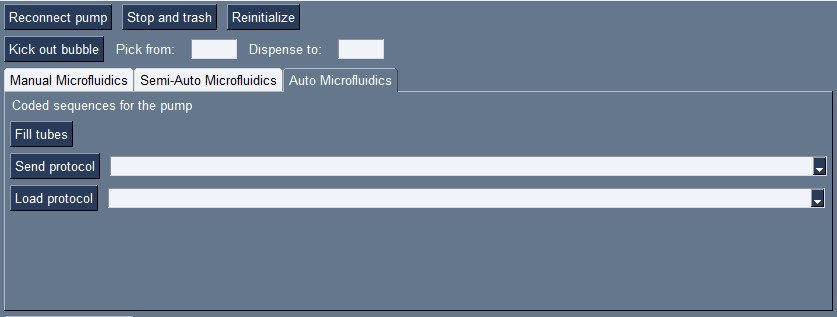
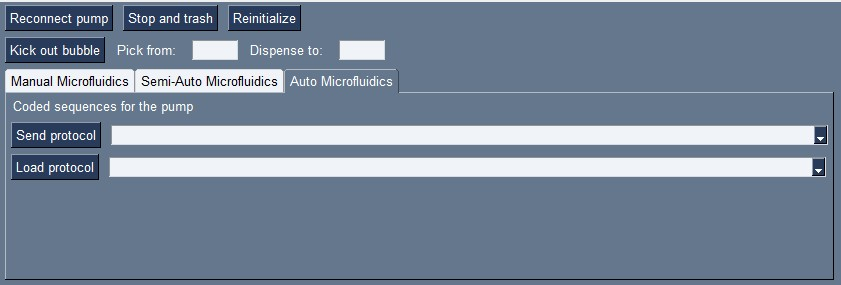
microflu auto

Changed region(s): [[0.0, 0.0, 1.0, 1.0]]

diff --git a/SenSwiss2023/GUI/gui.py b/SenSwiss2023/GUI/gui.py
@@ -544,13 +544,6 @@ if __name__ == "__main__":
             else:
                 print("Check pump connection")
 
-        elif event == "fillTubes":
-            if pump_connected == True:
-                seq = microflu.get_kick_bubble_seq()
-                pump_connected = microflu.write_sequence_to_pump(lsp, seq)
-            else:
-                print("Check pump connection")
-
         elif event == "functionalizeChip":
             if pump_connected == True:
                 channel_chosen = window["functionalizeChannel"].get()
@@ -946,7 +939,7 @@ if __name__ == "__main__":
                 shift_cen = imgproc.compute_shift(time_of_intensities_spec, centroids, comments, moving_average_size, gfapKey, stopKey)
                 window['shiftTxt'].update("Shifts computed: min = " + str(shift_min) + "; centroid = " + str(shift_cen))
                 print("Shifts computed: min = " + str(shift_min) + "; centroid = " + str(shift_cen))
-                
+
         elif event == "acquisitionPeriod":
             try:
                 acqPeriod = float(window["acquistionPeriodInput"].get())

diff --git a/SenSwiss2023/GUI/layout.py b/SenSwiss2023/GUI/layout.py
@@ -84,9 +84,6 @@ def create_layout(logo_size: typing.Tuple[int, int], camera_img_size: typing.Tup
             sg.Text("Coded sequences for the pump"),
         ],
         [
-            sg.Button("Fill tubes", key="fillTubes"),
-        ],
-        [
             sg.Button("Send protocol", key="sendProtocol"),
             sg.Combo(gui.protocol_list, default_value="", key="protocolAuto", size=(100, 1)),
         ],

diff --git a/SenSwiss2023/GUI/README.md b/SenSwiss2023/GUI/README.md
@@ -93,11 +93,16 @@ The semi-automatic mode allows the user to define a protocol of commands that wi
 - `copy`: the copy checkbox allows to select the line to copy, the user can then paste the line by clicking on the `Copy commands` button
 - `Delete`: the user can delete the line by clicking on the `Delete` button
 
-The user can then select the command to add from the drop-down list. The user can then set the parameters of the command via the input fields. For example, if the user wants to pick up 10 $\mu L$ from valve 1 at a flowrate of 1000 $\mu L$/min, the user has to select the command `Pickup uL`, set the valve to 1
-, the volume and the the flowrate. The user can then click on the Add command button to add the command to the list of commands. The list of commands can be saved by clicking on the Save protocol button. The protocol will be saved in the protocols folder as a *.csv* file. The user can name the protocol file via the adjacent input field, in any case, the protocol will be saved. 
+The list of commands can be saved by clicking on the `Save commands` button with a file name specified by the user. The protocol will be saved in the protocols folder as a **.csv** file. If the user loads a protocol from the automatic section, the program will automatically load the protocol and display it in the list of commands in the semi-automatic section. The user can then edit the protocol and save it under a different name.
+
+The user can clear the whole command pannel by clicking on the `Delete all` button.
+
+Finally, the user can send the protocol to the pump for it to be sequentially executed by clicking on the `Send` button. The program will concatenate all the command **strings** into a big command **string** and send it to the pump which will then dissect it and execute the instruction one by one. This communication way prevents too long lists of commands. An empirical maximum is at 22 command lines.
+
 #### Automatic
 ![Microflu_auto](layout_figures/Microflu_auto.jpg)
-The user can load a protocol by clicking on the Load protocol button. The user can then select the protocol to load from the list of protocols. The protocol will be loaded and displayed in the list of commands. The user can then edit the protocol and save it under a different name.
+
+The automatic mode allows to execute prewritten protocols. The user can either select and directly send a protocol to the pump for it to be excecuted via the `Send protocol` button, or the user can also select and load a protocol into the semi-automatic section by clicking on the `Load protocol` button. The protocol will be loaded and displayed in the list of commands. The user can then edit the protocol and save it under a different name.
 
 <a id="Camera"></a>
 ### Camera
